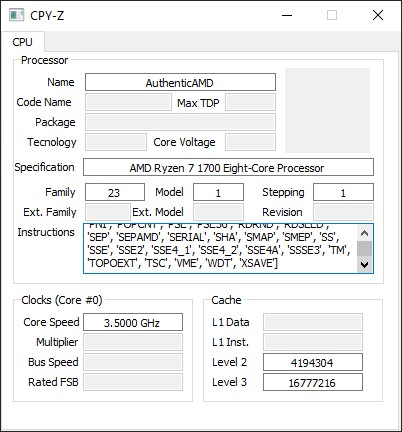
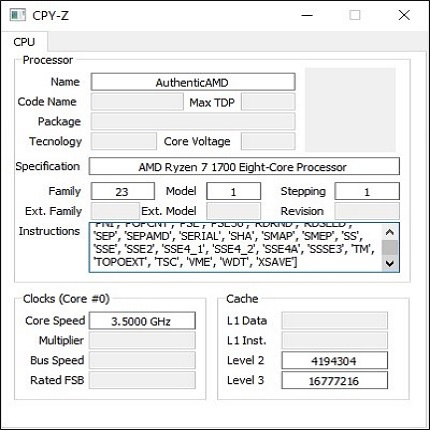
Update Images
Removendo Link a Imagens e Atuaizando as Imagens Para Arquivos Hospedados no Proprio GitHub.

diff --git a/index.html b/index.html
@@ -42,7 +42,7 @@
         <article class="container" id="top">
             <div class="row">
                 <div class="4u">
-                    <span class="image fit"><img src="https://dsm01pap002files.storage.live.com/y4mo-FhuabA7Tj-NtEwgic910w9aptdTqMrzBCJ2Hapq4I6lC3uKvK0UAFmh0u8-FrYn8Rf7km1xGSFGwArE_8iQqoFK11kEbckJOQ8WnLOEjq2RiCFMZsXhHyxPfz_0hfB6S6-7SkhqulNv206VprJIexciVo59lLuXJR5fQt775nZj_QfrhtTw0dkfwJqvjyo?width=660&height=660&cropmode=none" alt="" /></span>
+                    <span class="image fit"><img src="images/pic00.jpg" alt="" /></span>
                 </div>
                 <div class="8u">
                     <header>
